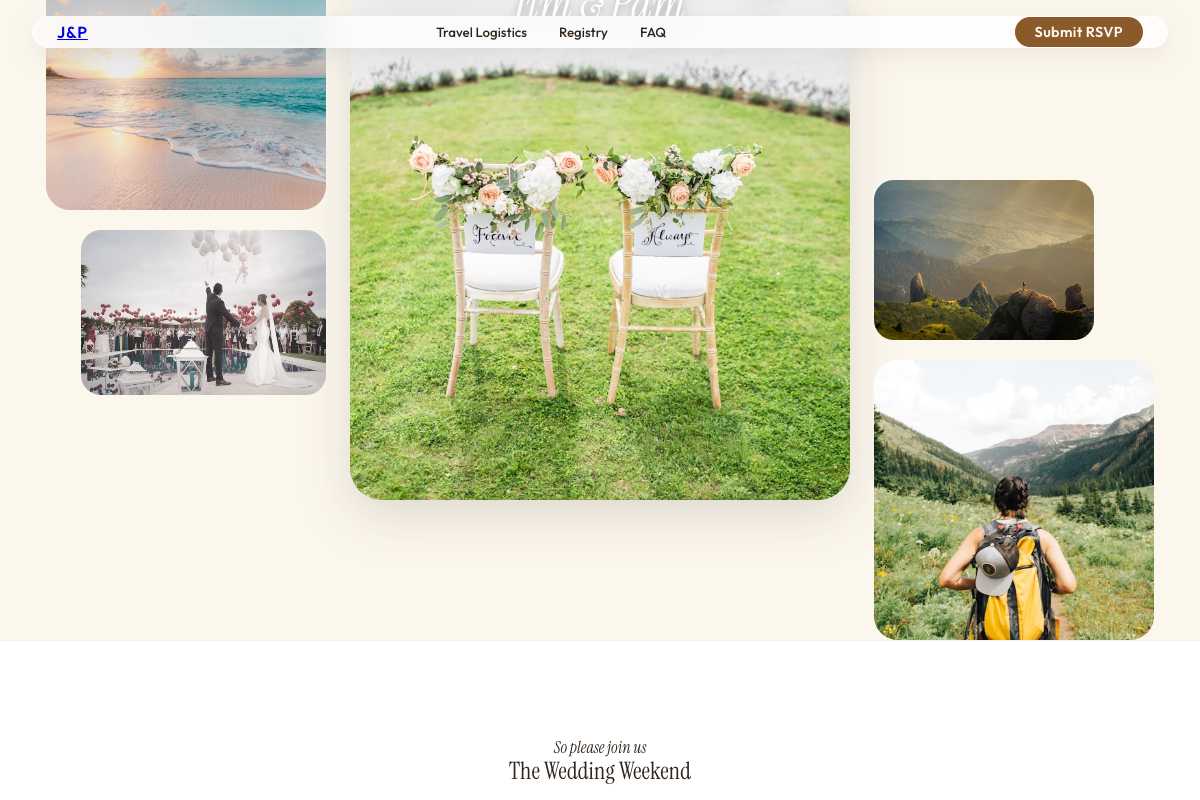
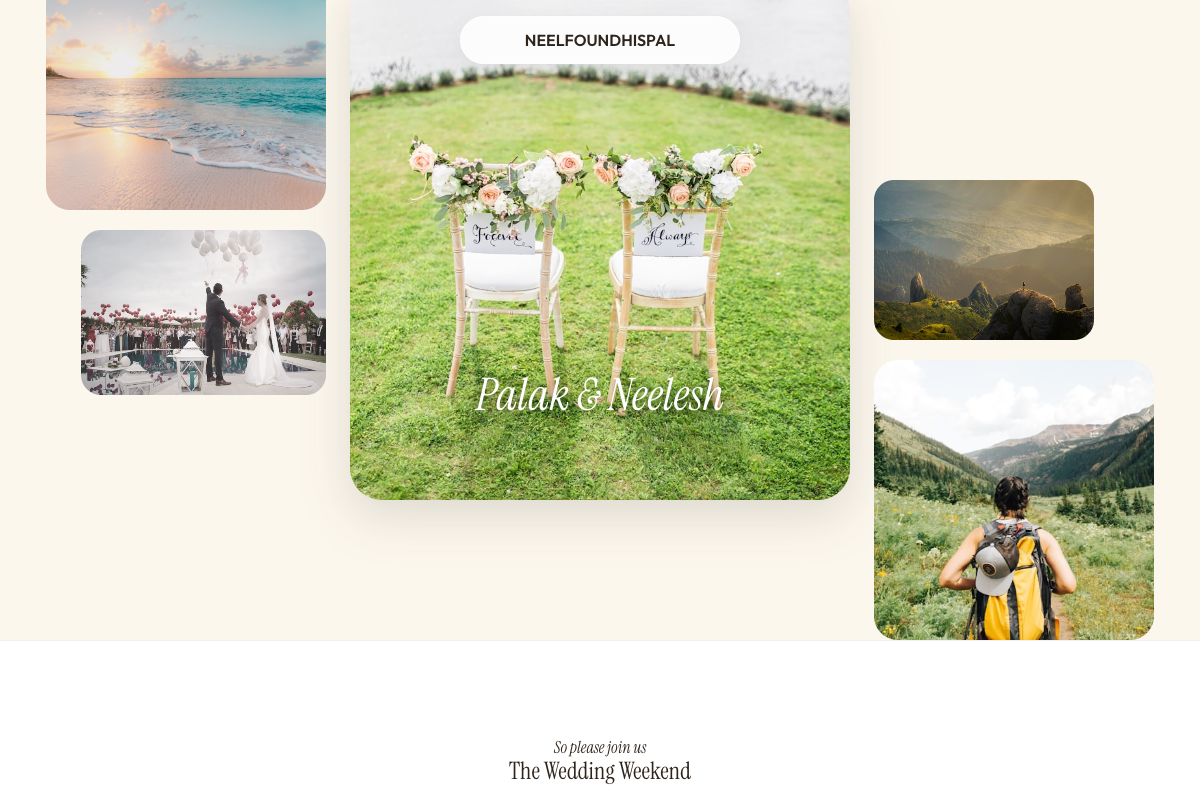
refactor: replace hero nav with a morphing navbar and update wedding details from Jim & Pam to Palak & Neelesh

diff --git a/src/components/ScrollCollage.jsx b/src/components/ScrollCollage.jsx
@@ -48,6 +48,9 @@ export default function ScrollCollage() {
   const easeOutCubic = (t) => 1 - Math.pow(1 - t, 3);
   const eased = easeOutCubic(scrollProgress);
 
+  // Morphing navbar progress (completes transition over first 12% of scroll)
+  const navProgress = Math.min(1, scrollProgress / 0.12);
+
   // Custom non-linear easing curves for horizontal (X) and vertical (Y) trajectories per card
   // This gives each card its own unique path and speed, creating a curved "invasion" effect.
   
@@ -87,12 +90,14 @@ export default function ScrollCollage() {
   };
 
   // Main Card Dimensions Logic
-  // At p=0, Main Card matches viewport size. At p=1, matches sizes.main.
-  const mainCardWidth = viewport.w - (viewport.w - sizes.main.w) * scrollProgress;
-  const mainCardHeight = viewport.h - (viewport.h - sizes.main.h) * scrollProgress;
+  // At p=0, Main Card is viewport size minus 32px to create a 16px gutter with rounded corners. At p=1, matches sizes.main.
+  const startW = viewport.w - 32;
+  const startH = viewport.h - 32;
+  const mainCardWidth = startW - (startW - sizes.main.w) * scrollProgress;
+  const mainCardHeight = startH - (startH - sizes.main.h) * scrollProgress;
   
-  // Interpolate border radius of main card: 0px when full screen, 32px when in collage
-  const mainCardBorderRadius = scrollProgress * 32;
+  // Border radius of main card is constantly 32px to keep it rounded at all scroll positions
+  const mainCardBorderRadius = 32;
 
   // Horizontal translation offset for side images flying in
   const translateOffset = viewport.w * 0.45;
@@ -117,68 +122,30 @@ export default function ScrollCollage() {
   return (
     <div ref={containerRef} className="relative w-full" style={{ height: '230vh' }}>
       
-      {/* FIXED FLOATING NAVBAR (appears on scroll) */}
-      <nav 
-        className="fixed left-0 right-0 top-0 z-50 px-4 md:px-8 pointer-events-none"
-        style={{ 
-          opacity: floatingNavOpacity,
-          transform: `translateY(${floatingNavY}px)`,
-          transition: 'transform 0.1s ease-out'
-        }}
-      >
-        <div className="mx-auto mt-4 w-full max-w-[1200px] glass-nav pointer-events-auto flex items-center justify-between h-14 px-6">
-          <a href="#" className="font-semibold text-lg tracking-wider hover:opacity-75 transition-opacity" onClick={() => scrollToSection('top')}>
-            J&P
-          </a>
-          
-          <div className="hidden md:flex items-center gap-8">
-            <button onClick={() => scrollToSection('details')} className="text-sm font-medium hover:opacity-75 transition-opacity">Travel Logistics</button>
-            <button onClick={() => scrollToSection('details')} className="text-sm font-medium hover:opacity-75 transition-opacity">Registry</button>
-            <button onClick={() => scrollToSection('faq')} className="text-sm font-medium hover:opacity-75 transition-opacity">FAQ</button>
-          </div>
-
-          <div className="flex items-center gap-4">
-            <button 
-              onClick={() => scrollToSection('rsvp')}
-              className="btn-primary text-sm font-semibold tracking-wide py-1.5 px-5"
-            >
-              Submit RSVP
-            </button>
-            
-            {/* Mobile Menu Icon */}
-            <button 
-              onClick={() => setMobileMenuOpen(!mobileMenuOpen)} 
-              className="p-1 md:hidden hover:bg-black/5 rounded-full transition-colors"
-              aria-label="Toggle Menu"
-            >
-              {mobileMenuOpen ? <X size={20} /> : <Menu size={20} />}
-            </button>
-          </div>
+      {/* MORPHING FLOATING NAVBAR */}
+      <nav className="fixed left-0 right-0 top-0 z-50 px-4 pointer-events-none flex justify-center">
+        <div 
+          className="pointer-events-auto flex items-center justify-center transition-all duration-300 ease-out"
+          style={{
+            width: '100%',
+            maxWidth: `${1200 - (1200 - 280) * navProgress}px`,
+            height: '48px',
+            marginTop: '16px',
+            borderRadius: `${navProgress * 9999}px`,
+            backgroundColor: `rgba(255, 255, 255, ${navProgress * 0.85})`,
+            backdropFilter: navProgress > 0 ? `blur(${navProgress * 16}px)` : 'none',
+            WebkitBackdropFilter: navProgress > 0 ? `blur(${navProgress * 16}px)` : 'none',
+            border: navProgress > 0 ? `1px solid rgba(255, 255, 255, ${navProgress * 0.4})` : '1px solid transparent',
+            boxShadow: navProgress > 0.5 ? '0 8px 24px rgba(47, 36, 27, 0.08)' : 'none',
+            color: '#2f241b',
+            paddingLeft: '24px',
+            paddingRight: '24px',
+          }}
+        >
+          <span className="font-semibold text-sm md:text-base tracking-[0.25em] uppercase whitespace-nowrap">
+            NeelFoundHisPal
+          </span>
         </div>
-
-        {/* Mobile Dropdown */}
-        {mobileMenuOpen && (
-          <div className="absolute top-16 right-4 left-4 bg-white/95 backdrop-blur-md border border-black/5 rounded-2xl p-6 shadow-xl flex flex-col gap-4 pointer-events-auto md:hidden">
-            <button 
-              onClick={() => { setMobileMenuOpen(false); scrollToSection('details'); }} 
-              className="text-left py-2 font-medium text-lg border-b border-black/5"
-            >
-              Travel Logistics
-            </button>
-            <button 
-              onClick={() => { setMobileMenuOpen(false); scrollToSection('details'); }} 
-              className="text-left py-2 font-medium text-lg border-b border-black/5"
-            >
-              Registry
-            </button>
-            <button 
-              onClick={() => { setMobileMenuOpen(false); scrollToSection('faq'); }} 
-              className="text-left py-2 font-medium text-lg"
-            >
-              FAQ
-            </button>
-          </div>
-        )}
       </nav>
 
       {/* STICKY CONTAINER FOR ANIMATION */}
@@ -238,7 +205,7 @@ export default function ScrollCollage() {
             {/* Background Image inside Main Card */}
             <img 
               src="https://images.unsplash.com/photo-1522673607200-164d1b6ce486?q=80&w=1200" 
-              alt="Jim & Pam proposal" 
+              alt="Palak & Neelesh proposal" 
               className="absolute inset-0 w-full h-full object-cover"
               style={{
                 transform: `scale(${1.1 - 0.1 * eased})`,
@@ -249,31 +216,13 @@ export default function ScrollCollage() {
             {/* Dark gradient overlay for typography legibility */}
             <div className="absolute inset-0 bg-gradient-to-t from-black/50 via-black/10 to-black/30" />
 
-            {/* INTEGRATED NAVBAR INSIDE HERO CARD (fades out on scroll) */}
-            <div 
-              className="absolute top-0 left-0 right-0 p-6 flex items-center justify-between text-white z-30"
-              style={{ 
-                opacity: insideNavOpacity,
-                pointerEvents: scrollProgress > 0.05 ? 'none' : 'auto'
-              }}
-            >
-              <span className="font-semibold text-lg tracking-wider">J&P</span>
-              <div className="hidden md:flex items-center gap-8 text-sm font-medium tracking-wide">
-                <button onClick={() => scrollToSection('details')} className="hover:opacity-85 transition-opacity">Travel Logistics</button>
-                <button onClick={() => scrollToSection('details')} className="hover:opacity-85 transition-opacity">Registry</button>
-                <button onClick={() => scrollToSection('faq')} className="hover:opacity-85 transition-opacity">FAQ</button>
-              </div>
-              <button 
-                onClick={() => scrollToSection('rsvp')}
-                className="btn-primary text-sm font-semibold tracking-wide py-1.5 px-5"
-                style={{ backgroundColor: '#8a5a2b', color: '#fff9f1' }}
-              >
-                Submit RSVP
-              </button>
-            </div>
+            {/* Inside navbar removed in favor of morphing navbar */}
 
             {/* HERO TYPOGRAPHY OVERLAY */}
-            <div className="absolute inset-x-0 bottom-16 flex flex-col items-center justify-center z-20 pointer-events-none px-6 text-center">
+            <div 
+              className="absolute inset-x-0 flex flex-col items-center justify-center z-20 pointer-events-none px-6 text-center"
+              style={{ bottom: '5rem' }}
+            >
               <h1 
                 className="text-white font-display italic text-center"
                 style={{
@@ -285,19 +234,26 @@ export default function ScrollCollage() {
                   whiteSpace: 'nowrap'
                 }}
               >
-                Jim & Pam
+                Palak & Neelesh
               </h1>
             </div>
 
             {/* SCROLL PROMPT prompt (fades out on scroll) */}
             <div 
-              className="absolute inset-x-0 bottom-6 flex items-center justify-between px-8 text-[10px] md:text-xs font-semibold uppercase tracking-[0.4em] text-white/90 z-20 pointer-events-none"
-              style={{ opacity: scrollPromptOpacity }}
+              className="absolute flex flex-col items-center gap-2 z-20 pointer-events-none"
+              style={{ 
+                opacity: scrollPromptOpacity,
+                bottom: '2.5rem',
+                left: '50%',
+                transform: 'translateX(-50%)',
+                width: 'max-content',
+                color: 'rgba(255, 255, 255, 0.9)'
+              }}
             >
-              <div className="flex items-center gap-1">
-                <ArrowDown size={14} className="animate-bounce" />
-              </div>
-              <span>Scroll to explore</span>
+              <span className="text-[10px] md:text-xs font-semibold uppercase tracking-[0.3em]">
+                Scroll to explore more
+              </span>
+              <ArrowDown size={16} className="animate-bounce mt-1" />
             </div>
           </div>
 

diff --git a/src/App.jsx b/src/App.jsx
@@ -28,13 +28,13 @@ function App() {
       {/* Footer */}
       <footer className="py-12 bg-bg-accent border-t border-black/5 text-center px-6">
         <div className="max-w-[600px] mx-auto flex flex-col items-center gap-4">
-          <p className="font-display italic text-3xl text-accent-color">J&P</p>
+          <p className="font-display italic text-3xl text-accent-color">P&N</p>
           <p className="text-xs text-text-muted font-medium uppercase tracking-[0.2em]">
             June 18, 2027 • Big Sur, California
           </p>
           <div className="h-[1px] w-12 bg-accent-color/30 my-2"></div>
           <p className="text-[11px] text-text-muted/65 font-light">
-            Made with love for Jim and Pam. Hopefully, Roy doesn't show up.
+            Made with love for Palak and Neelesh.
           </p>
         </div>
       </footer>

diff --git a/src/components/DetailsSection.jsx b/src/components/DetailsSection.jsx
@@ -35,7 +35,7 @@ export default function DetailsSection() {
     {
       icon: <Hotel className="text-accent-color" size={24} />,
       title: "Accommodations",
-      desc: "We have blocked rooms at the Redwood Mountain Lodge. Please mention the 'Jim & Pam Wedding' when booking before April 1st to receive our group rate."
+      desc: "We have blocked rooms at the Redwood Mountain Lodge. Please mention the 'Palak & Neelesh Wedding' when booking before April 1st to receive our group rate."
     },
     {
       icon: <Info className="text-accent-color" size={24} />,
